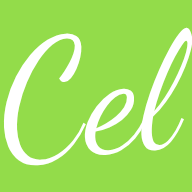
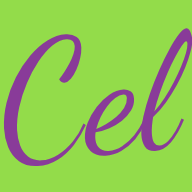
셀 한눈에: AI 별 모양 반대로(요약 전 빈 별 · 요약 보임 채운 별 · 원본 빈 별) · 파비콘/앱아이콘 교체 (cell v. 26-1107-8)
Claude-Session: https://claude.ai/code/session_01J2e77PYHDKvV6p6y2bnri3

Changed region(s): [[0.0, 0.125, 1.0, 0.875]]

diff --git a/cell/index.html b/cell/index.html
@@ -1,5 +1,5 @@
 <!DOCTYPE html>
-<!-- 셀 한눈에 v. 26-1107-7 — BLOCK7·Sweeter 와 별개인 독립 앱 (cell/ → sweeter.my/cell/) · 셀 케어 보고서를 읽기만 해서 다시 정리해 본다 -->
+<!-- 셀 한눈에 v. 26-1107-8 — BLOCK7·Sweeter 와 별개인 독립 앱 (cell/ → sweeter.my/cell/) · 셀 케어 보고서를 읽기만 해서 다시 정리해 본다 -->
 <html lang="ko">
 <head>
 <meta charset="utf-8">
@@ -282,9 +282,9 @@ h3 .lnk{font-weight:500}
 .morebtn{display:flex;align-items:center;justify-content:center;width:44px;height:24px;margin:-11px auto 0;padding:0;position:relative;z-index:1;color:var(--tx3);opacity:.7;transition:margin-top .28s cubic-bezier(.22,.8,.24,1)}
 .clamp.open+.morebtn,.morebtn.gmore{margin-top:2px}
 .aibtn{display:flex;align-items:center;justify-content:center;width:32px;height:24px;margin:-24px 0 0 auto;position:relative;z-index:1;color:var(--tx3);opacity:.75}
-.aibtn svg{width:15px;height:15px;fill:currentColor}
+.aibtn svg{width:15px;height:15px;fill:none;stroke:currentColor;stroke-width:1.6;stroke-linejoin:round}
 .aibtn.has{color:var(--ac);opacity:1}
-.aibtn.on svg{fill:none;stroke:var(--ac);stroke-width:1.6}
+.aibtn.on svg{fill:currentColor}
 .aibtn.busy svg{animation:aispin 1.1s linear infinite}
 @keyframes aispin{to{transform:rotate(360deg)}}
 .clamp.aisum{display:block;-webkit-line-clamp:unset;-webkit-mask-image:none;mask-image:none;white-space:pre-line}
@@ -341,7 +341,7 @@ input[type=tel]{font-size:16px}
 <script id="cell-core">
 // 셀 한눈에 — 화면 없이 도는 판단만 모은 덩어리. tests/test_cell.js 가 이것만 떼어 시험한다.
 // ⚠ 읽기만 한다. 셀 케어 DB 에 쓰는 함수는 이 앱 어디에서도 부르지 않는다 (test_cell ⑧ 이 지킨다).
-const APP_VERSION = 'v. 26-1107-7';
+const APP_VERSION = 'v. 26-1107-8';
 const SEEN_KEY = 'cell_seen_v1';          // 이미 본 코멘트 id 만 (내용은 두지 않는다)
 const PREF_KEY = 'cell_pref_v1';          // 화면 취향(고른 탭 · 기간 · 범위)
 const WEEKS_LOADED = 12;
